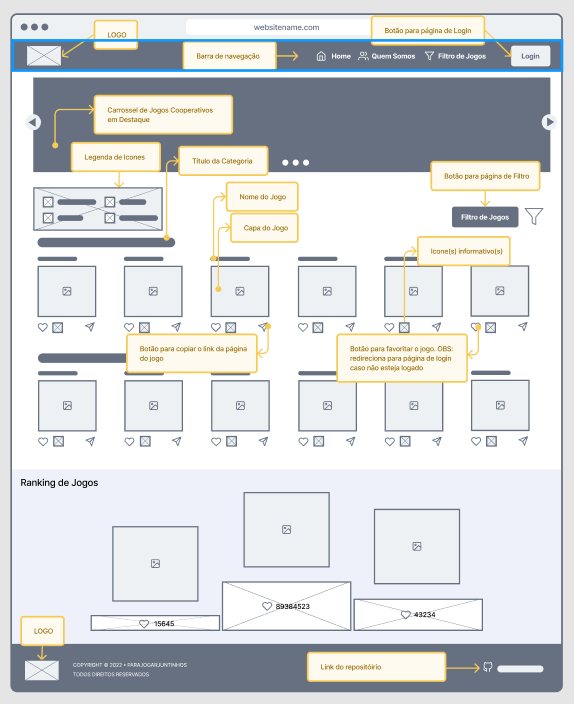
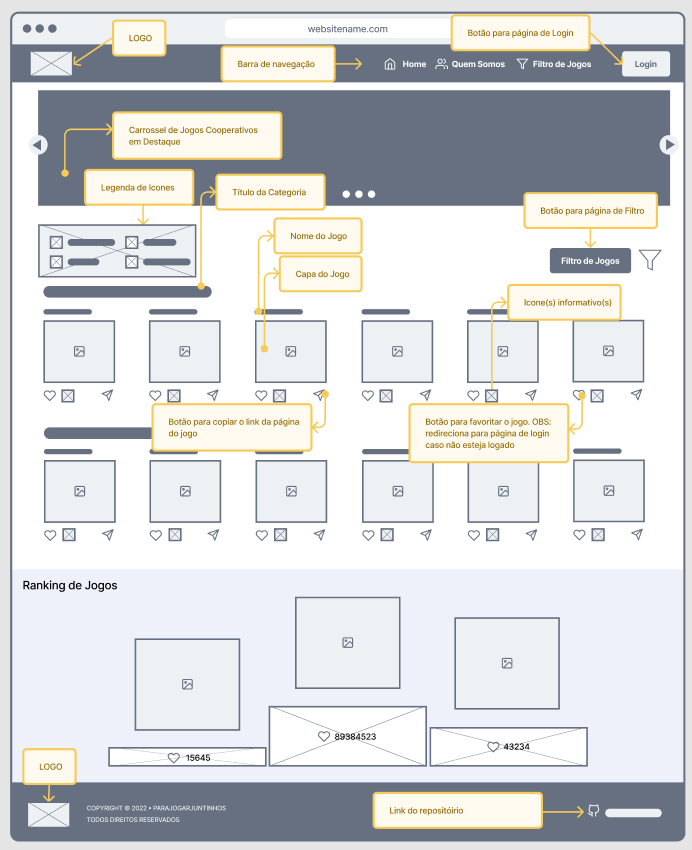
Tirando outros links de estudo do wireframe e ajustando imagens

diff --git a/docs/interface.md b/docs/interface.md
@@ -40,16 +40,6 @@ Através da homepage, no menu de navegação é possível acessar a opção "Que
 ![Página Inicial](img/quem-somos.png)
 
 </div>
-
-> **Links Úteis**:
-> - [Protótipos vs Wireframes](https://www.nngroup.com/videos/prototypes-vs-wireframes-ux-projects/)
-> - [Ferramentas de Wireframes](https://rockcontent.com/blog/wireframes/)
-> - [MarvelApp](https://marvelapp.com/developers/documentation/tutorials/)
-> - [Figma](https://www.figma.com/)
-> - [Adobe XD](https://www.adobe.com/br/products/xd.html#scroll)
-> - [Axure](https://www.axure.com/edu) (Licença Educacional)
-> - [InvisionApp](https://www.invisionapp.com/) (Licença Educacional)
-
  
 ### Feedback Positivo
 
